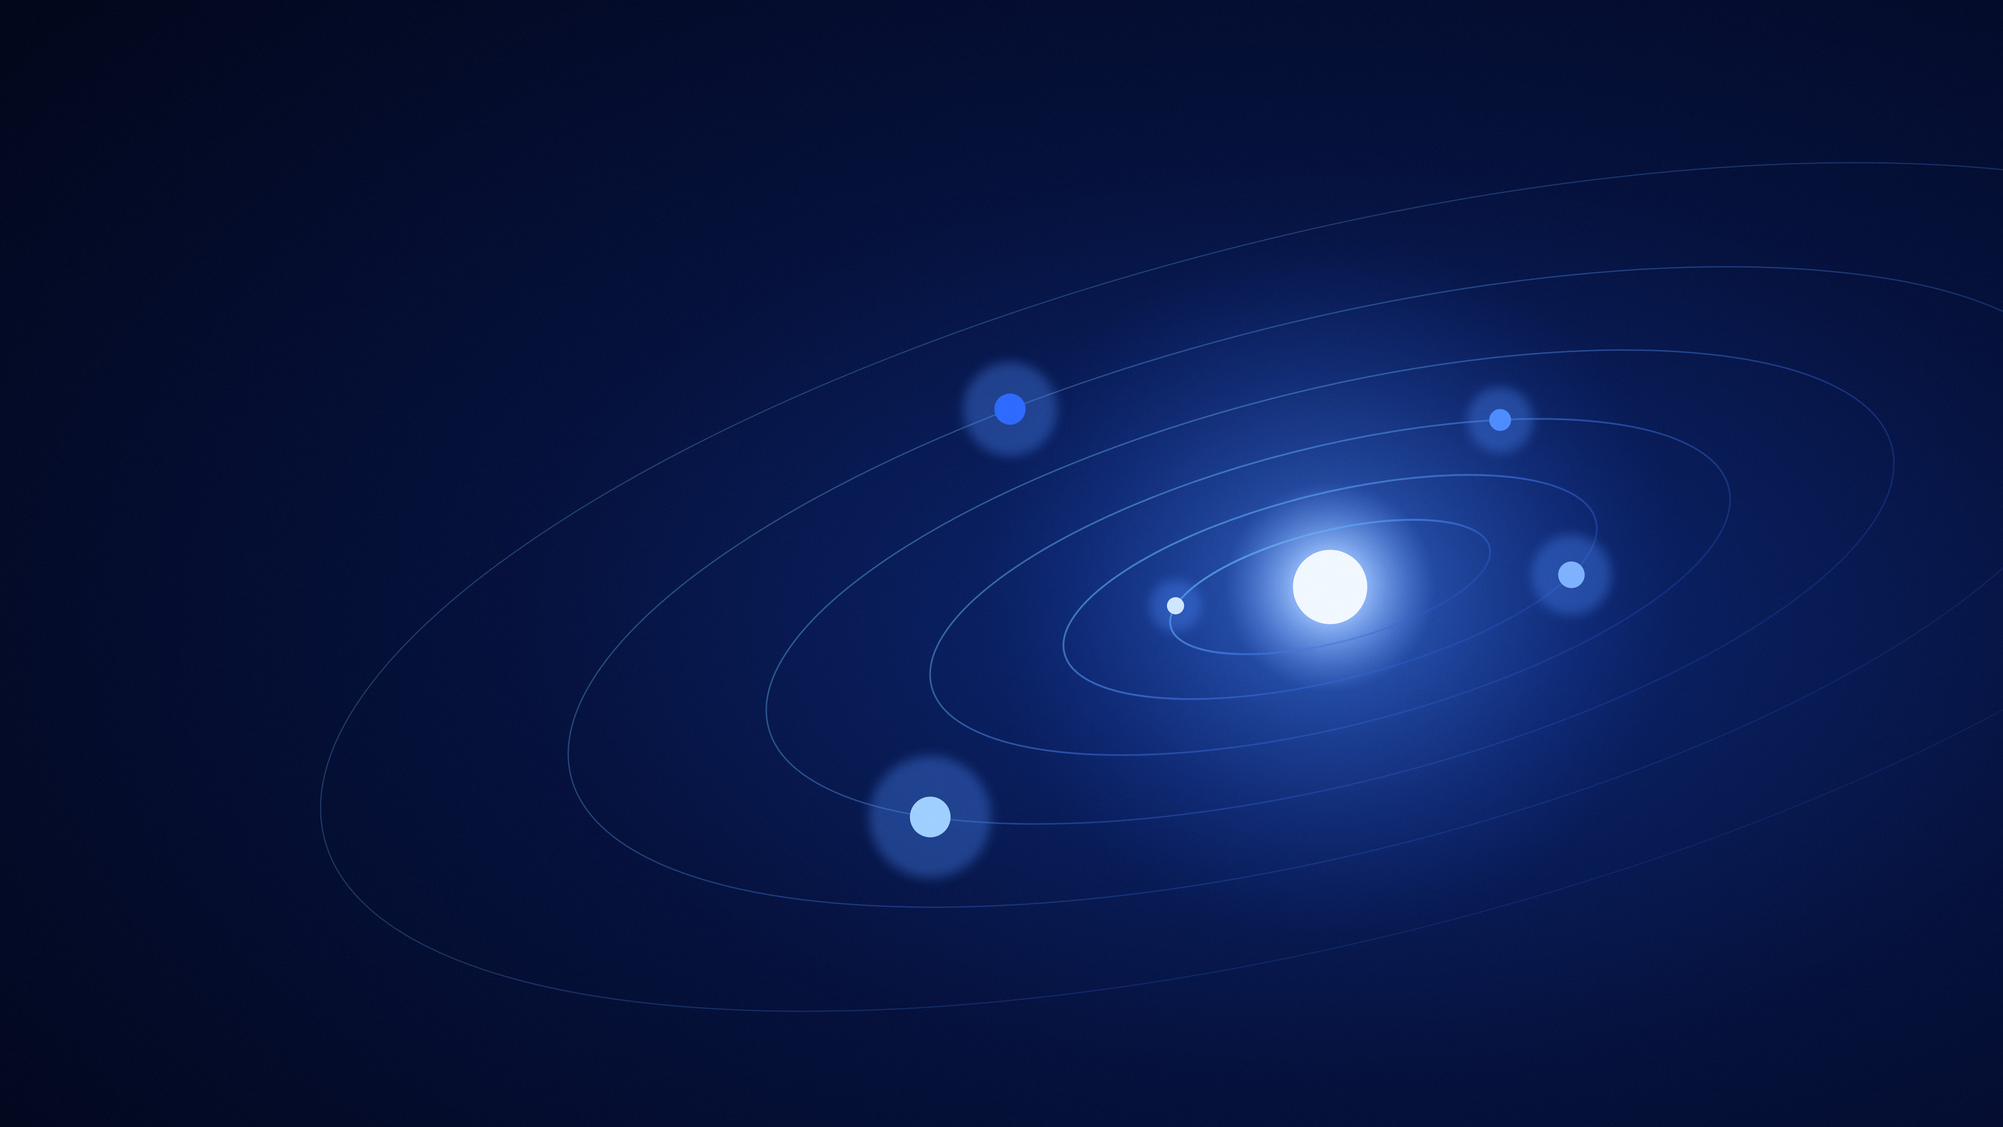
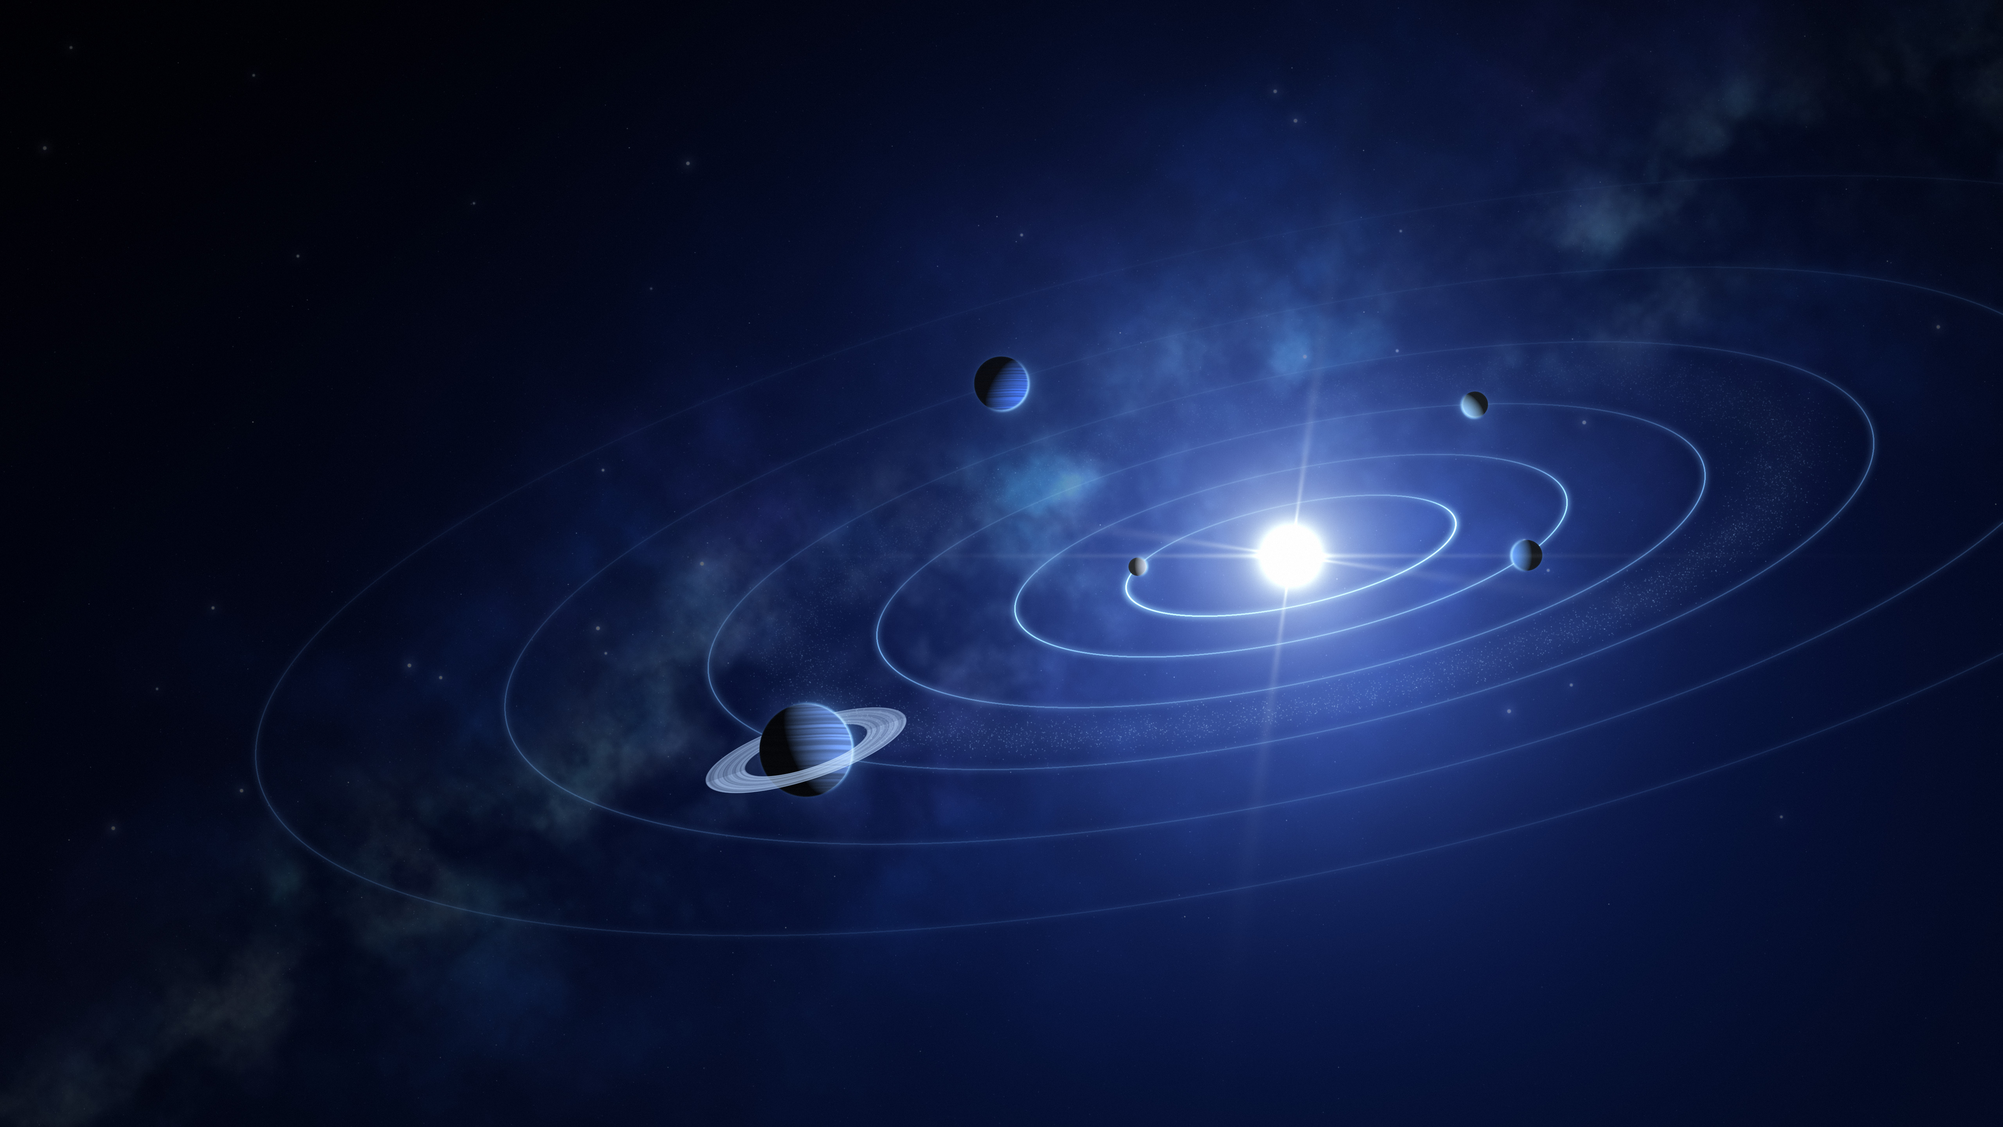
Draw the default orbits wallpaper as a detailed planetary system and drop light duplicates (#64)
- orbits.py draws the default wallpaper over the Milky Way of sky.py: a bright star with a corona, six orbits brighter on their near side, shaded planets lit by the star, a ringed giant and an asteroid belt; cosmic-blue-orbits.jpg keeps its name
- drop cosmic-blue-light.jpg and cosmic-blue-orbits-light.jpg; the per-theme defaults (.Dark / .Light) both point to cosmic-blue-orbits.jpg; light code paths removed from the scripts
- concept.py now only draws the waves; other wallpapers unchanged

Claude-Session: https://claude.ai/code/session_01MxskLFpkShZAaXsDQ3mtn5

diff --git a/branding/wallpaper/orbits.py b/branding/wallpaper/orbits.py
@@ -1,0 +1,122 @@
+#!/usr/bin/env python3
+"""The default cosmic-blue wallpaper: a planetary system seen from above its
+plane. A bright star, six orbits, shaded planets (one ringed giant), an
+asteroid belt, over the Milky Way of sky.py.
+Usage: orbits.py OUT.jpg (reads sky.png).
+Needs numpy, pillow and scipy.
+"""
+import math, sys
+import numpy as np
+from PIL import Image
+from scipy.ndimage import gaussian_filter
+out = sys.argv[1]
+W, H = 5120, 2880
+rng = np.random.default_rng(7)
+SX, SY = 3300, 1420           # star
+TILT = math.radians(-12); RY = .30
+sky = np.asarray(Image.open("sky.png").convert("RGB")).astype(np.float32) / 255
+y, x = np.mgrid[0:H, 0:W].astype(np.float32)
+rs = np.hypot(x - SX, y - SY)
+vig = np.clip(np.hypot((x - W / 2) / W, (y - H / 2) / H) * 1.6, 0, 1)[..., None]
+
+
+def screen(a, b): return 1 - (1 - a) * (1 - np.clip(b, 0, 1))
+
+
+# dimmed Milky Way, blue light around the star
+img = sky * .42 * (1 - .5 * vig)
+img += (np.exp(-(rs / 1500) ** 2) * .30)[..., None] * np.array([.10, .25, .75])
+img += (np.exp(-(rs / 600) ** 2) * .35)[..., None] * np.array([.25, .45, 1.0])
+def ell(r, t):
+    ex, ey = r * np.cos(t), r * RY * np.sin(t)
+    return SX + ex * math.cos(TILT) - ey * math.sin(TILT), SY + ex * math.sin(TILT) + ey * math.cos(TILT)
+
+# orbits: thin lines, brighter on the near (lower) half
+radii = [430, 720, 1080, 1520, 2050, 2700]
+lines = np.zeros((H, W), np.float32)
+for i, r in enumerate(radii):
+    t = np.linspace(0, 2 * np.pi, int(r * 14))
+    px, py = ell(r, t)
+    near = .3 + .7 * (np.sin(t) * .5 + .5) ** 1.5
+    ok = (px >= 0) & (px < W) & (py >= 0) & (py < H)
+    np.add.at(lines, (py[ok].astype(int), px[ok].astype(int)), near[ok] * (1 - .08 * i) * 14 / (r * 14 / 1000))
+lines = gaussian_filter(lines, 1.1) * 1.2 + gaussian_filter(lines, 8) * 3
+img = screen(img, lines[..., None] * np.array([.45, .7, 1.0]) * .55)
+
+# asteroid belt between the 3rd and 4th orbits
+n = 9000
+t = rng.uniform(0, 2 * np.pi, n); rr = rng.normal(1290, 70, n)
+px, py = ell(rr, t); py = py + rng.normal(0, 14, n)
+near = .25 + .75 * (np.sin(t) * .5 + .5) ** 1.5
+belt = np.zeros((H, W), np.float32)
+ok = (px >= 0) & (px < W) & (py >= 0) & (py < H)
+np.add.at(belt, (py[ok].astype(int), px[ok].astype(int)), near[ok] * rng.uniform(.3, 1, n)[ok] ** 2)
+belt = gaussian_filter(belt, .9) * 5 + gaussian_filter(belt, 18) * 14
+img = screen(img, belt[..., None] * np.array([.6, .78, 1.0]) * .5)
+
+def noise1d(seed, n=64):
+    return np.random.default_rng(seed).random(n)
+
+def planet(img, cx, cy, R, base, light, seed, bands=0, atmo=(.4, .65, 1.0), ring=None, lz=-.35):
+    x0, x1 = int(max(cx - R * 2.6, 0)), int(min(cx + R * 2.6, W)); y0, y1 = int(max(cy - R * 2.6, 0)), int(min(cy + R * 2.6, H))
+    if x0 >= x1 or y0 >= y1: return
+    yy, xx = np.mgrid[y0:y1, x0:x1].astype(np.float32)
+    dx, dy = (xx - cx) / R, (yy - cy) / R; d2 = dx * dx + dy * dy
+    inside = np.clip((1 - np.sqrt(d2)) * R / 1.5, 0, 1)
+    nz = np.sqrt(np.clip(1 - d2, 0, 1))
+    L = np.array([SX - cx, SY - cy, lz * math.hypot(SX - cx, SY - cy)]) if light else np.array([1, -1, -.6])
+    L = L / np.linalg.norm(L)
+    diff = np.clip(dx * L[0] + dy * L[1] - nz * L[2], 0, 1)
+    shade = .04 + .96 * diff ** .8
+    col = np.array(base, np.float32)
+    if bands:
+        b = noise1d(seed)
+        stripe = np.interp((dy * .5 + .5) * 63 + np.sin(dx * 3) * .6, np.arange(64), b)
+        col = col[None, None, :] * (.75 + .5 * stripe[..., None])
+    else:
+        col = np.broadcast_to(col, dy.shape + (3,))
+    surf = col * shade[..., None]
+    # limb: lit rim and atmosphere glow outside
+    dist = np.sqrt(d2)
+    rim = np.exp(-((dist - 1) * R / 3.5) ** 2) * (diff + .05)
+    glow = np.exp(-np.clip(dist - 1, 0, None) * R / (R * .12 + 6)) * (dist > .98) * (.15 + .85 * np.clip(dx * L[0] + dy * L[1], 0, 1))
+    patch = img[y0:y1, x0:x1]
+    if ring:
+        rin, rout, rtilt = ring
+        ca, sa = math.cos(rtilt), math.sin(rtilt)
+        ux = (dx * ca + dy * sa); uy = (-dx * sa + dy * ca) / .28
+        rd = np.sqrt(ux * ux + uy * uy)
+        rband = np.clip((rd - rin) * 40, 0, 1) * np.clip((rout - rd) * 40, 0, 1)
+        rtex = .6 + .4 * np.interp(rd, np.linspace(rin, rout, 32), noise1d(seed + 9, 32))
+        back = uy < 0
+        ringc = (rband * rtex * (.35 + .5 * np.clip(diff.max(), 0, 1)))[..., None] * np.array([.7, .82, 1.0])
+        patch = screen(patch, ringc * back[..., None] * .75)
+    patch = patch * (1 - inside[..., None]) + surf * inside[..., None]
+    patch = screen(patch, (rim * .9)[..., None] * np.array(atmo))
+    patch = screen(patch, (glow * .5)[..., None] * np.array(atmo))
+    if ring:
+        front = ~back
+        patch = screen(patch, ringc * front[..., None] * .9)
+    img[y0:y1, x0:x1] = patch
+
+ps = [  # (orbit index, angle deg, radius, colour, bands, ring)
+    (0, 205, 24, (.75, .80, .90), 0, None),
+    (1, 35, 40, (.35, .60, 1.0), 0, None),
+    (2, 300, 34, (.55, .78, 1.0), 0, None),
+    (3, 150, 120, (.45, .62, .95), 1, (1.35, 2.25, math.radians(-18))),
+    (4, 252, 70, (.25, .45, .95), 1, None),
+    (5, 22, 46, (.62, .85, 1.0), 0, None),
+]
+for k, (oi, ang, R, col, bands, ring) in enumerate(ps):
+    px, py = ell(radii[oi], math.radians(ang))
+    planet(img, float(px), float(py), R, col, True, 30 + k, bands, ring=ring)
+
+# the star: white core, corona, faint anamorphic streak and four soft spikes
+core = np.exp(-(rs / 70) ** 2) * 1.6 + np.exp(-(rs / 220) ** 2) * .55 + np.exp(-(rs / 700) ** 2) * .18
+streak = np.exp(-((y - SY) / 6) ** 2) * np.exp(-np.abs(x - SX) / 380) * .3
+ang = np.arctan2(y - SY, x - SX)
+spikes = (np.abs(np.cos(2 * (ang - math.radians(8)))) ** 400) * np.exp(-rs / 300) * .3
+img = screen(img, (core + streak + spikes)[..., None] * np.array([.88, .94, 1.0]))
+img = np.clip(img, 0, 1) * 255
+img += np.random.default_rng(57).normal(0, 2.0, img.shape[:2])[..., None]
+Image.fromarray(np.clip(img, 0, 255).astype(np.uint8)).save(out, quality=92, subsampling=0, optimize=True)

diff --git a/branding/wallpaper/concept.py b/branding/wallpaper/concept.py
@@ -1,76 +1,30 @@
 #!/usr/bin/env python3
-"""Conceptual cosmic-blue wallpapers, as SVG (5120x2880).
-Usage: concept.py orbits-dark|orbits-light|waves OUT.svg
-- orbits: planets on tilted orbits around a bright star (the default wallpaper)
-- waves: layered ribbons of light
-Render with render.js, then finish with compose.py concept.
+"""The waves wallpaper, as SVG (5120x2880): layered ribbons of light.
+Usage: concept.py waves OUT.svg. Render with render.js, then finish with
+compose.py concept.
 """
 import math
 import sys
 
-kind, out = sys.argv[1], sys.argv[2]
+out = sys.argv[2]
 W, H = 5120, 2880
-LIGHT = kind == "orbits-light"
-
-if LIGHT:
-    bg = ("#e3ecff", "#f1f5ff", "#fbfcff")
-    sun = ("#ffffff", "#ffffff", "#9fc4ff", ".45", "#4f8dff")
-    line = ("#4f8dff", "#2a63e8", "#1d47c4")
-    planets = ["#7fb2ff", "#2a63e8", "#1d47c4", "#4f8dff", "#0f2f99", "#3fa9f5"]
-    halo, core = "#4f8dff", "#ffffff"
-else:
-    bg = ("#0d2a7a", "#06123d", "#020617")
-    sun = ("#e8f4ff", "#9fc4ff", "#4f8dff", ".35", "#1d47c4")
-    line = ("#7fe0ff", "#4f8dff", "#1d47c4")
-    planets = ["#cfe6ff", "#7fb2ff", "#4f8dff", "#9fd0ff", "#2f6bff", "#7fe0ff"]
-    halo, core = "#4f8dff", "#f2f8ff"
-
 o = [f'<svg xmlns="http://www.w3.org/2000/svg" viewBox="0 0 {W} {H}" width="{W}" height="{H}"><defs>',
-     '<radialGradient id="bg" cx=".66" cy=".55" r=".9"><stop offset="0" stop-color="{}"/>'
-     '<stop offset=".45" stop-color="{}"/><stop offset="1" stop-color="{}"/></radialGradient>'.format(*bg),
-     '<radialGradient id="sun"><stop offset="0" stop-color="{}"/><stop offset=".08" stop-color="{}"/>'
-     '<stop offset=".3" stop-color="{}" stop-opacity="{}"/><stop offset="1" stop-color="{}" stop-opacity="0"/></radialGradient>'.format(*sun),
-     '<linearGradient id="ln" x1="0" y1="0" x2="1" y2="1"><stop offset="0" stop-color="{}"/><stop offset=".5" stop-color="{}"/>'
-     '<stop offset="1" stop-color="{}" stop-opacity=".4"/></linearGradient>'.format(*line),
-     '<filter id="g" x="-50%" y="-50%" width="200%" height="200%"><feGaussianBlur stdDeviation="14"/></filter>',
+     '<radialGradient id="bg" cx=".66" cy=".55" r=".9"><stop offset="0" stop-color="#0d2a7a"/>'
+     '<stop offset=".45" stop-color="#06123d"/><stop offset="1" stop-color="#020617"/></radialGradient>',
      '<filter id="g2" x="-50%" y="-50%" width="200%" height="200%"><feGaussianBlur stdDeviation="90"/></filter>',
      '</defs>', f'<rect width="{W}" height="{H}" fill="url(#bg)"/>']
-
-if kind.startswith("orbits"):
-    cx, cy, tilt = 3400, 1500, -14
-    o.append(f'<circle cx="{cx}" cy="{cy}" r="900" fill="url(#sun)"/>')
-    o.append(f'<g transform="rotate({tilt} {cx} {cy})">')
-    radii = [420, 700, 1050, 1480, 2000, 2650]
-    phases = [200, 30, 300, 140, 250, 20]
-    sizes = [22, 34, 28, 52, 40, 30]
-    for i, (r, ph, pr) in enumerate(zip(radii, phases, sizes)):
-        ry = r * .34
-        op = (.75 - .07 * i) if LIGHT else (.55 - .06 * i)
-        o.append(f'<ellipse cx="{cx}" cy="{cy}" rx="{r}" ry="{ry}" fill="none" stroke="url(#ln)" '
-                 f'stroke-width="{5 - 0.4 * i:.1f}" opacity="{op:.2f}"/>')
-        a = math.radians(ph)
-        px, py = cx + r * math.cos(a), cy + ry * math.sin(a)
-        o.append(f'<circle cx="{px:.0f}" cy="{py:.0f}" r="{pr * 3}" fill="{halo}" opacity="{.25 if LIGHT else .35}" filter="url(#g)"/>')
-        o.append(f'<circle cx="{px:.0f}" cy="{py:.0f}" r="{pr}" fill="{planets[i]}"/>')
-    o.append('</g>')
-    if LIGHT:
-        o.append(f'<circle cx="{cx}" cy="{cy}" r="260" fill="{halo}" opacity=".35" filter="url(#g2)"/>')
-    o.append(f'<circle cx="{cx}" cy="{cy}" r="95" fill="{core}"/>')
-    if LIGHT:
-        o.append(f'<circle cx="{cx}" cy="{cy}" r="95" fill="none" stroke="#2a63e8" stroke-width="6" opacity=".5"/>')
-else:
-    for j in range(46):
-        t = j / 45
-        y0 = 2300 - t * 900
-        amp = 380 + t * 260
-        ph = t * 2.2
-        pts = []
-        for x in range(0, W + 81, 80):
-            y = y0 + amp * math.sin(x / W * 2.4 * math.pi + ph) * (.6 + .4 * math.sin(x / W * math.pi)) - t * 0.12 * x
-            pts.append(f"{x} {y:.1f}")
-        col = ["#1d47c4", "#2f6bff", "#4f8dff", "#7fe0ff"][int(t * 3.99)]
-        s = math.sin(t * math.pi)
-        o.append(f'<path d="M{" L".join(pts)}" fill="none" stroke="{col}" stroke-width="{3 + 6 * s:.2f}" opacity="{.15 + .45 * s:.2f}"/>')
-    o.append('<ellipse cx="3000" cy="1500" rx="1700" ry="600" fill="#4f8dff" opacity=".18" filter="url(#g2)"/>')
+for j in range(46):
+    t = j / 45
+    y0 = 2300 - t * 900
+    amp = 380 + t * 260
+    ph = t * 2.2
+    pts = []
+    for x in range(0, W + 81, 80):
+        y = y0 + amp * math.sin(x / W * 2.4 * math.pi + ph) * (.6 + .4 * math.sin(x / W * math.pi)) - t * 0.12 * x
+        pts.append(f"{x} {y:.1f}")
+    col = ["#1d47c4", "#2f6bff", "#4f8dff", "#7fe0ff"][int(t * 3.99)]
+    s = math.sin(t * math.pi)
+    o.append(f'<path d="M{" L".join(pts)}" fill="none" stroke="{col}" stroke-width="{3 + 6 * s:.2f}" opacity="{.15 + .45 * s:.2f}"/>')
+o.append('<ellipse cx="3000" cy="1500" rx="1700" ry="600" fill="#4f8dff" opacity=".18" filter="url(#g2)"/>')
 o.append('</svg>')
 open(out, "w").write("".join(o))

diff --git a/branding/wallpaper/foreground.py b/branding/wallpaper/foreground.py
@@ -3,14 +3,10 @@
 
 The logo, as a scene: a planet inside a glowing open orbit, with a moon in
 the gap. The sky, the Milky Way and the stars are rendered by sky.py.
-Usage: foreground.py [dark|light]. Writes foreground.svg (5120x2880). The light
-variant has deeper blues, a softer shadow, a white halo and an outlined moon,
-so the scene stays readable on a pale sky.
+Usage: foreground.py. Writes foreground.svg (5120x2880).
 """
 import math
-import sys
 
-LIGHT = len(sys.argv) > 1 and sys.argv[1] == "light"
 
 W, H = 5120, 2880
 CX, CY, PR = 3300, 1440, 430     # planet centre and radius
@@ -32,15 +28,14 @@ orbit = arc(GAP, 360 - GAP)
 mx, my = pt(0)
 mx -= R * 0.05                   # moon sits just inside the gap, as in the logo
 
-# colours: (dark, light)
-C = {k: v[LIGHT] for k, v in {
-    "orb": (("#7fe0ff", "#4f8dff", "#2f6bff"), ("#3fa9f5", "#2a63e8", "#1d47c4")),
-    "shadow": (("#020822", ".6", ".92"), ("#0a1f66", ".45", ".8")),
-    "halo": (("#3f86ff", ".45", "#2a5cff", ".12"), ("#ffffff", ".7", "#e8f0ff", ".25")),
-    "moon_edge": ("#8fb6ff", "#6f9cf5"),
-    "mglow": (("#e6f3ff", ".8", "#9fd0ff", ".3", "#5f9cff"), ("#ffffff", ".9", "#ffffff", ".35", "#ffffff")),
-    "orbit_glow": (".45", ".3"),
-}.items()}
+C = {
+    "orb": ("#7fe0ff", "#4f8dff", "#2f6bff"),
+    "shadow": ("#020822", ".6", ".92"),
+    "halo": ("#3f86ff", ".45", "#2a5cff", ".12"),
+    "moon_edge": "#8fb6ff",
+    "mglow": ("#e6f3ff", ".8", "#9fd0ff", ".3", "#5f9cff"),
+    "orbit_glow": ".45",
+}
 
 o = [f'<svg xmlns="http://www.w3.org/2000/svg" viewBox="0 0 {W} {H}" width="{W}" height="{H}">',
      '<title>cosmic-blue</title><defs>',
@@ -67,7 +62,5 @@ o.append(f'<path d="{orbit}" fill="none" stroke="url(#orb)" stroke-width="260" s
 o.append(f'<path d="{orbit}" fill="none" stroke="url(#orb)" stroke-width="120" stroke-linecap="round"/>')
 o.append(f'<path d="{orbit}" fill="none" stroke="#e8fbff" stroke-width="14" stroke-linecap="round" opacity=".35" filter="url(#b18)"/>')
 o.append(f'<circle cx="{mx:.0f}" cy="{my:.0f}" r="380" fill="url(#mglow)"/><circle cx="{mx:.0f}" cy="{my:.0f}" r="80" fill="url(#moon)"/>')
-if LIGHT:  # the white moon needs an edge on a pale sky
-    o.append(f'<circle cx="{mx:.0f}" cy="{my:.0f}" r="80" fill="none" stroke="#2a63e8" stroke-width="6" opacity=".55"/>')
 o.append('</svg>')
 open("foreground.svg", "w").write("".join(o))

diff --git a/branding/wallpaper/compose.py b/branding/wallpaper/compose.py
@@ -1,7 +1,7 @@
 #!/usr/bin/env python3
 """Composite the sky and foreground.png, add a fine grain (prevents banding in
 the gradients) and write the final JPEG.
-Usage: compose.py dark|light OUT.jpg (reads sky.png or sky-light.png), or
+Usage: compose.py dark OUT.jpg (reads sky.png and foreground.png), or
 compose.py concept OUT.jpg IN.png (an opaque render, only the grain is added)."""
 import sys
 import numpy as np
@@ -19,16 +19,12 @@ def finish(img):
 if mode == "concept":
     finish(Image.open(sys.argv[3]))
     sys.exit()
-sky = np.asarray(Image.open("sky-light.png" if mode == "light" else "sky.png").convert("RGB")).astype(np.float32) / 255
+sky = np.asarray(Image.open("sky.png").convert("RGB")).astype(np.float32) / 255
 h, w = sky.shape[:2]
 y, x = np.mgrid[0:h, 0:w]
 spot = np.exp(-(((x - 3250) / 1900.0) ** 2 + ((y - 1500) / 1300.0) ** 2))[..., None]
 dist = np.clip(np.sqrt(((x - w / 2) / w) ** 2 + ((y - h / 2) / h) ** 2) * 1.6, 0, 1)[..., None]
-if mode == "light":
-    # a white glow behind the planet, very soft vignette
-    sky = (1 - (1 - sky) * (1 - spot * .18)) * (1 - 0.12 * dist)
-else:
-    # quieter sky: dimmed Milky Way, a blue glow behind the planet, soft vignette
-    sky = (sky * 0.6 + spot * np.array([.05, .14, .42])) * (1 - 0.55 * dist)
+# quieter sky: dimmed Milky Way, a blue glow behind the planet, soft vignette
+sky = (sky * 0.6 + spot * np.array([.05, .14, .42])) * (1 - 0.55 * dist)
 sky = Image.fromarray((np.clip(sky, 0, 1) * 255).astype(np.uint8)).convert("RGBA")
 finish(Image.alpha_composite(sky, Image.open("foreground.png").convert("RGBA")))

diff --git a/branding/wallpaper/sky.py b/branding/wallpaper/sky.py
@@ -1,8 +1,7 @@
 #!/usr/bin/env python3
 """Background layer of the cosmic-blue wallpaper: sky gradient, a procedural
 Milky Way (domain-warped fractal noise, ridged-noise dust lanes) and stars.
-Writes sky.png (night sky, for the dark wallpaper) and sky-light.png (the same
-Milky Way as blue wisps on a pale sky, for the light wallpaper), 5120x2880.
+Writes sky.png, 5120x2880.
 Needs numpy, pillow and scipy.
 """
 import numpy as np, math, sys
@@ -98,15 +97,3 @@ tint = np.array([.85, .93, 1.0], np.float32)
 img = img + ((starI + glow)[..., None] * tint)
 img = np.clip(img, 0, 1)
 Image.fromarray((img*255+.5).astype(np.uint8)).save("sky.png")
-
-# light sky: pale gradient, the Milky Way as blue ink, its cyan core and the
-# stars as white highlights
-pale = np.array([[246, 249, 255], [219, 231, 255], [180, 203, 255]], np.float32)/255
-light = np.where(t < .6, pale[0] + (pale[1]-pale[0])*(t/.6), pale[1] + (pale[2]-pale[1])*((t-.6)/.4))
-ink = np.array([42, 90, 216], np.float32)/255
-a = np.clip(emF.mean(-1, keepdims=True)*1.25, 0, 1)*.62
-light = light*(1-a) + ink*a
-core = np.clip(emF[..., 1:2] - emF[..., 0:1] - .05, 0, 1)
-light = 1 - (1-light)*(1-core*.9)
-light = 1 - (1-light)*(1-np.clip(starI + glow, 0, 1)[..., None]*.6)
-Image.fromarray((np.clip(light, 0, 1)*255+.5).astype(np.uint8)).save("sky-light.png")

diff --git a/branding/README.md b/branding/README.md
@@ -34,11 +34,10 @@ Regenerate the SVGs with `python3 logo/build.py`.
 
 All 5120x2880, in `system_files/usr/share/backgrounds/cosmic-blue/`:
 
-- `cosmic-blue-orbits.jpg`: planets on tilted orbits around a bright star,
-  the default COSMIC wallpaper
-- `cosmic-blue-orbits-light.jpg`: the same on a pale sky, for the light theme
-- `cosmic-blue.jpg` / `cosmic-blue-light.jpg`: the logo as a scene (night and
-  pale sky), offered in Settings
+- `cosmic-blue-orbits.jpg`: a planetary system seen from above its plane (a
+  bright star, shaded planets, a ringed giant, an asteroid belt) over the
+  Milky Way, the default COSMIC wallpaper
+- `cosmic-blue.jpg`: the logo as a scene, offered in Settings
 - `cosmic-blue-waves.jpg`: layered ribbons of light, offered in Settings
 - `cosmic-blue-milky-way.jpg`: the Milky Way above the Earth, a photo taken
   on the International Space Station (NASA, ISS064-E-55946, public domain),
@@ -49,26 +48,26 @@ Keep the main elements inside the centre so they survive cropping to 16:10,
 downloaded); the output is deterministic (fixed seeds). Keep the file names:
 accounts that picked a wallpaper in Settings point to its path.
 
-COSMIC 1.11 has one wallpaper for both themes (`com.system76.CosmicBackground`),
-so the light one is offered in Settings. Later COSMIC releases read a wallpaper
-per theme (`com.system76.CosmicBackground.Dark` / `.Light`); those defaults are
-already set, so the wallpaper will follow the theme once Fedora ships them.
+There are no light versions: the same wallpaper serves both themes. Later
+COSMIC releases read a wallpaper per theme (`com.system76.CosmicBackground.Dark`
+/ `.Light`); both point to the default.
 
-The orbits and the waves are drawn as SVG by `wallpaper/concept.py`, rendered
-by `wallpaper/render.js` and finished by `wallpaper/compose.py concept` (a fine
-grain against banding). `wallpaper/milky_way.py` crops and grades the photo.
+`wallpaper/orbits.py` draws the planetary system with numpy over
+the sky of `wallpaper/sky.py`. The waves are drawn as SVG by
+`wallpaper/concept.py`, rendered by `wallpaper/render.js` and finished by
+`wallpaper/compose.py concept` (a fine grain against banding). `wallpaper/milky_way.py` crops and grades the photo.
 
 The logo scene is built from two layers:
 
-- `wallpaper/sky.py`: sky gradient, procedural Milky Way and stars (numpy);
-  writes the night sky and the pale sky from the same Milky Way
-- `wallpaper/foreground.py dark|light`: the logo as a scene, a planet inside a
+- `wallpaper/sky.py`: sky gradient, procedural Milky Way and stars (numpy),
+  also the background of the orbits
+- `wallpaper/foreground.py`: the logo as a scene, a planet inside a
   glowing open orbit with a moon in the gap (SVG, rendered by
   `wallpaper/render.js` with Playwright's Chromium)
 
-`wallpaper/compose.py` dims the
-sky behind the planet (dark) or lightens it (light), adds a fine grain against
-banding and writes the JPEG.
+`wallpaper/compose.py dark` dims the
+sky, adds a blue glow behind the planet and a fine grain against banding, and
+writes the JPEG.
 
 ## fastfetch
 
